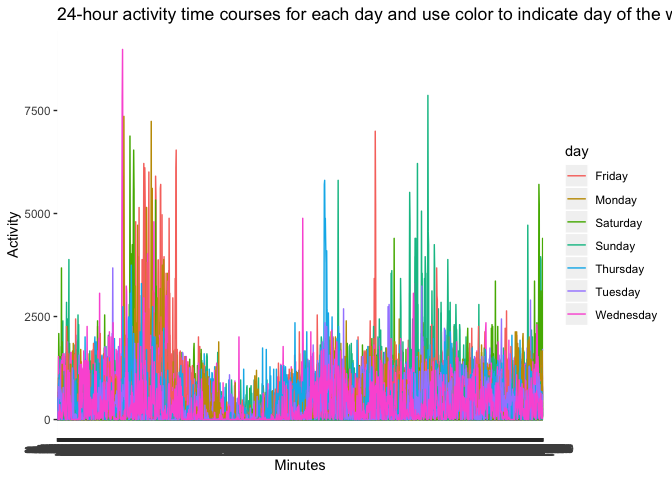
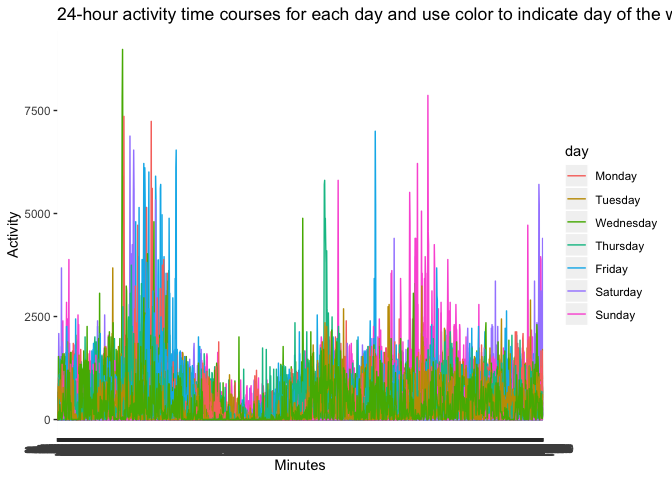
final version with comment

Changed region(s): [[0.0625, 0.0938, 0.8125, 0.875], [0.875, 0.4062, 0.9688, 0.6875], [0.875, 0.3438, 0.9375, 0.375]]

diff --git a/p8105_hw3_jy2965.md b/p8105_hw3_jy2965.md
@@ -33,14 +33,14 @@ skimr::skim(instacart)
     ##  n obs: 1384617 
     ##  n variables: 15 
     ## 
-    ## ── Variable type:character ────────────────────────────────────
+    ## ── Variable type:character ───────────────────────────────────────────
     ##      variable missing complete       n min max empty n_unique
     ##         aisle       0  1384617 1384617   3  29     0      134
     ##    department       0  1384617 1384617   4  15     0       21
     ##      eval_set       0  1384617 1384617   5   5     0        1
     ##  product_name       0  1384617 1384617   3 159     0    39123
     ## 
-    ## ── Variable type:integer ──────────────────────────────────────
+    ## ── Variable type:integer ─────────────────────────────────────────────
     ##                variable missing complete       n       mean        sd p0
     ##       add_to_cart_order       0  1384617 1384617       8.76      7.42  1
     ##                aisle_id       0  1384617 1384617      71.3      38.1   1
@@ -381,6 +381,7 @@ with reasonable variable classes. Describe the resulting dataset*
 acceler = read_csv(file = "./data/accel_data.csv") %>% 
   janitor::clean_names() %>% 
   mutate(week_vs_weekend = ifelse(day %in% c("Saturday","Sunday"),"weekend","weekday")) %>% 
+   mutate(day = factor(day, levels = c("Monday", "Tuesday","Wednesday", "Thursday", "Friday","Saturday","Sunday"))) %>% 
   select(week, day_id, day, week_vs_weekend, everything())
 ```
 
@@ -400,12 +401,17 @@ skimr::skim(acceler)
     ##  n obs: 35 
     ##  n variables: 1444 
     ## 
-    ## ── Variable type:character ────────────────────────────────────
+    ## ── Variable type:character ───────────────────────────────────────────
     ##         variable missing complete  n min max empty n_unique
-    ##              day       0       35 35   6   9     0        7
     ##  week_vs_weekend       0       35 35   7   7     0        2
     ## 
-    ## ── Variable type:numeric ──────────────────────────────────────
+    ## ── Variable type:factor ──────────────────────────────────────────────
+    ##  variable missing complete  n n_unique                     top_counts
+    ##       day       0       35 35        7 Mon: 5, Tue: 5, Wed: 5, Thu: 5
+    ##  ordered
+    ##    FALSE
+    ## 
+    ## ── Variable type:numeric ─────────────────────────────────────────────
     ##       variable missing complete  n   mean      sd p0   p25    p50     p75
     ##     activity_1       0       35 35  66.5   137.05  1   1     1      67.94
     ##    activity_10       0       35 35  71.77  147.88  1   1     1      57.9 
@@ -3294,8 +3300,8 @@ skimr::skim(acceler)
     ##     5    ▇▇▁▇▁▇▁▇
 
 There are 35 rows and 1444 columns in this dataset. week: unique week ID
-day: which day in the week week\_vs\_weekend: 0 represents weekday, 1
-represents weekend. day\_id: unique day ID activity.\*: the activity
+day: which day in the week week\_vs\_weekend: indicate if the day is in
+weekday or weekend. day\_id: unique day ID activity.\*: the activity
 counts for each minute of a 24-hour day starting at midnight
 
 *Traditional analyses of accelerometer data focus on the total activity
@@ -3312,7 +3318,6 @@ acceler %>%
     values_to = "activity") %>% 
   group_by(week,day) %>% 
   summarise(total_activity = sum(activity)) %>% 
- mutate(day = factor(day, levels = c("Monday", "Tuesday","Wednesday", "Thursday", "Friday","Saturday","Sunday"))) %>% 
   arrange(week,day) %>% 
   pivot_wider(
     names_from = day,
@@ -3342,7 +3347,8 @@ acceler_plot=acceler %>%
   pivot_longer(
     activity_1:activity_1440,
     names_to = "minutes", 
-    values_to = "activity")  
+    values_to = "activity")
+
 ggplot(acceler_plot, aes(x = minutes, y = activity,group = day_id,color = day))+
   geom_line()+
   labs(
@@ -3355,4 +3361,5 @@ ggplot(acceler_plot, aes(x = minutes, y = activity,group = day_id,color = day))+
 ![](p8105_hw3_jy2965_files/figure-gfm/unnamed-chunk-12-1.png)<!-- -->
 
 Here is the 24-hour activity time courses for each day and use color to
-indicate day of the week.
+indicate day of the week. From this graph, we can see the activity in
+Wednesday is apparently lower than the other days.
